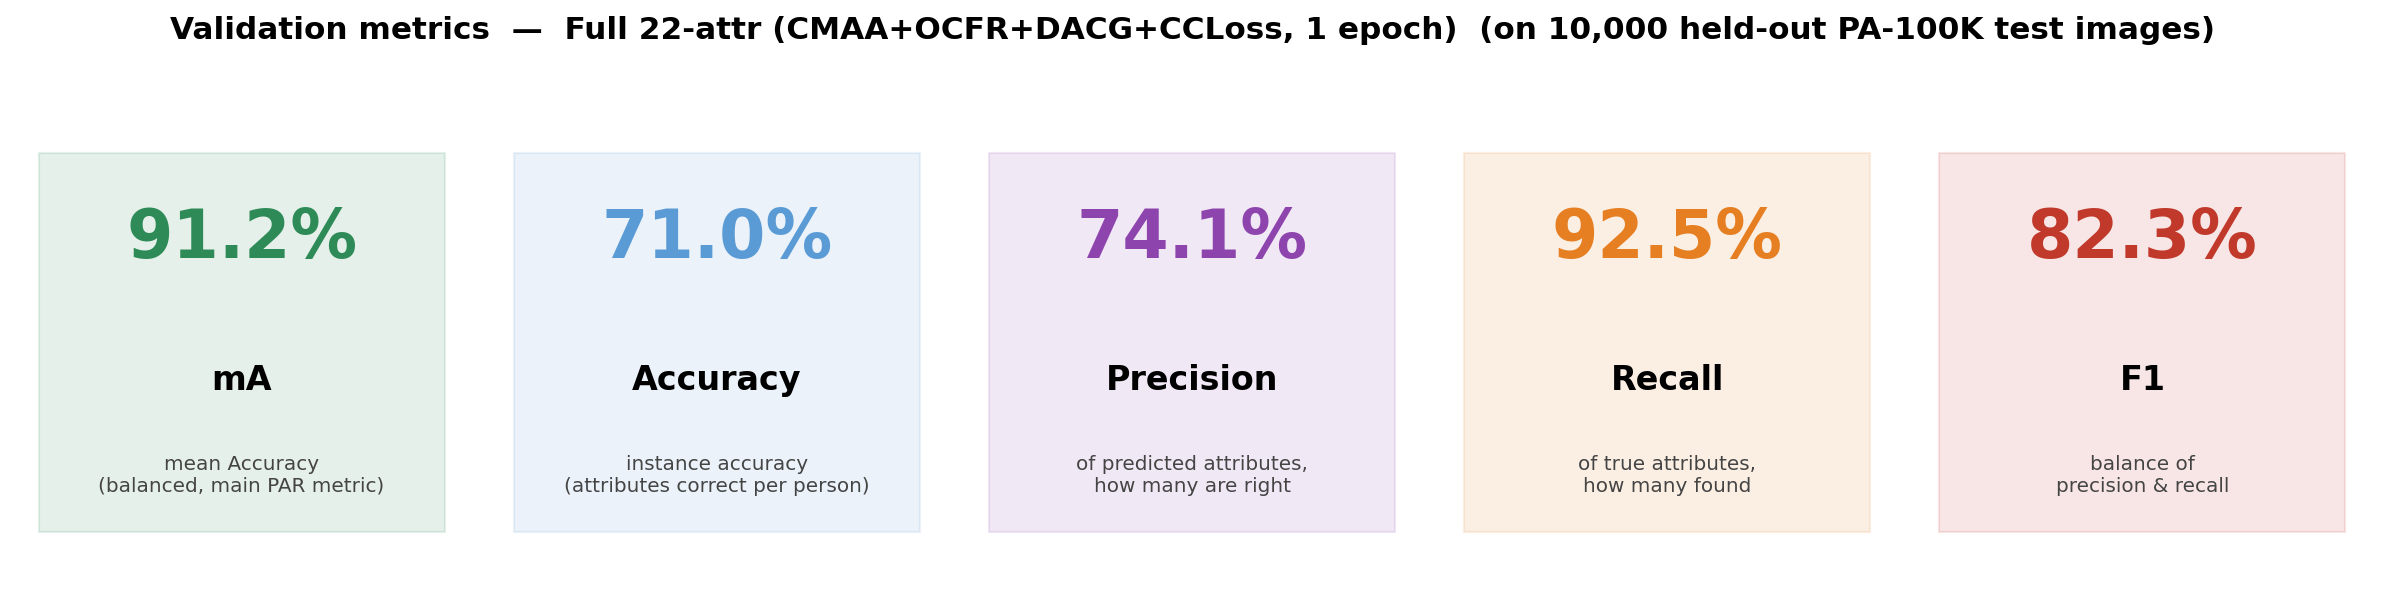
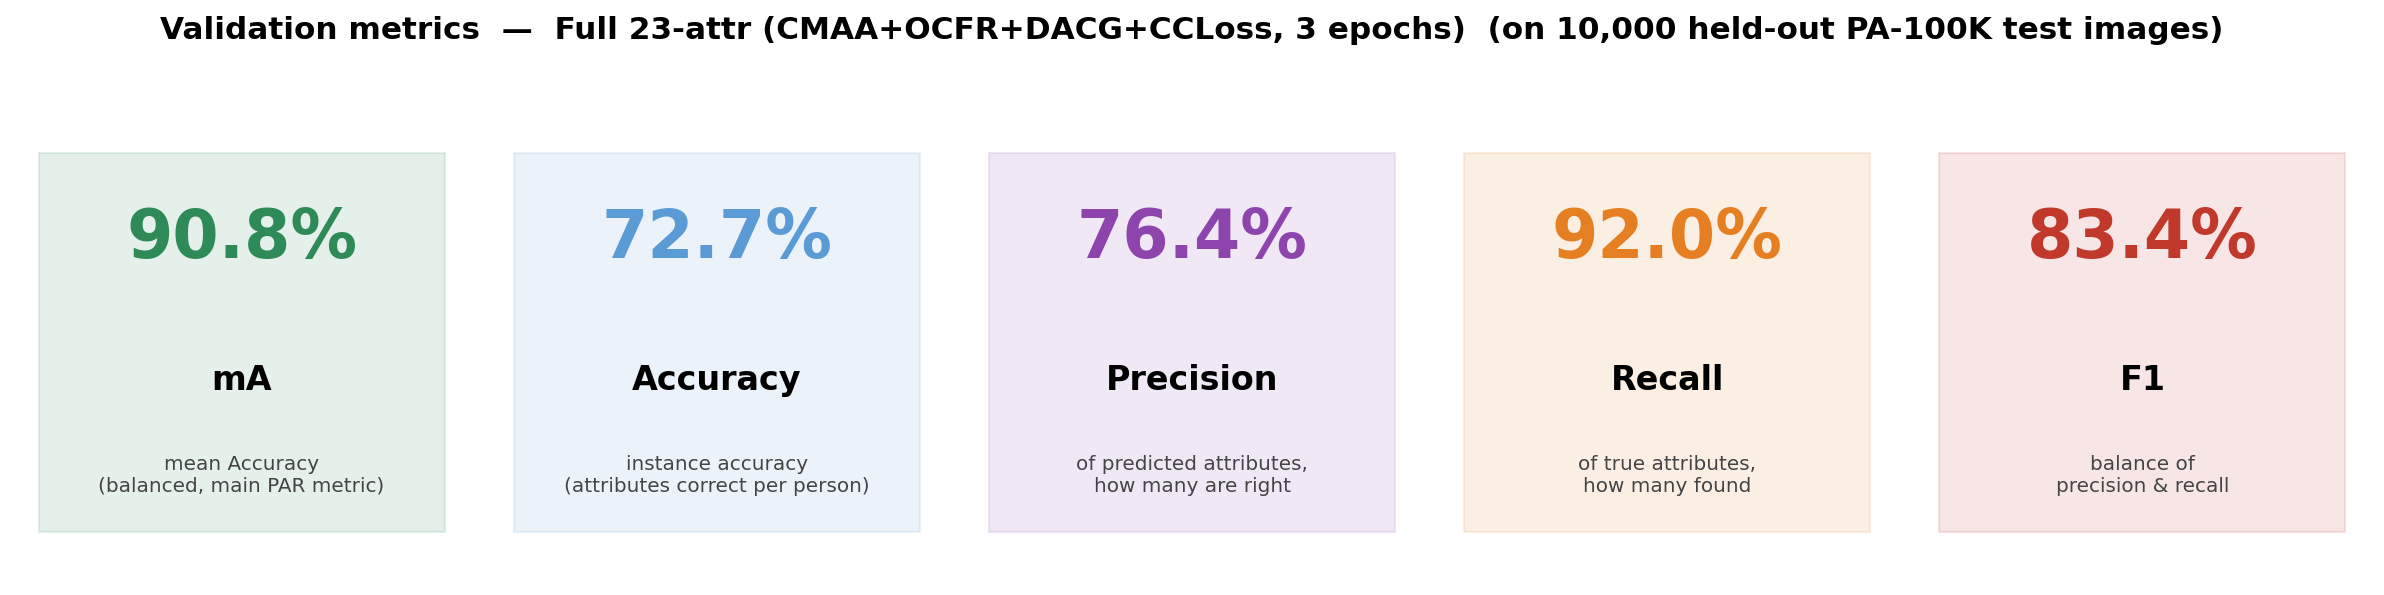
Update to final honest 23-attr metrics (leak-free, 3 epochs)
mA 90.80 / Acc 72.70 / Prec 76.36 / Rec 91.98 / F1 83.44 on held-out test.
Updated metrics.json, metrics_summary.png, explain.md, results_slide.md.
Documents the val(91.52)-test(90.80) gap as the fixed leakage.

Claude-Session: https://claude.ai/code/session_0179EsKrUNYt5JEmFAa6CnEV

diff --git a/results_slide.md b/results_slide.md
@@ -45,16 +45,19 @@ interpretability without hurting accuracy (honest ablation). Figures: `mvp/ablat
 
 ---
 
-## Final model — validation metrics (22-attr, gender+age removed per mentor)
+## Final model — validation metrics (23-attr: gender kept, age removed)
+**Leak-free** (val-selected epoch + val-calibrated thresholds, reported on held-out test).
 On **10,000 held-out PA-100K test images:**
 
 | Metric | Value |
 |---|---|
-| mA (mean Accuracy) | **91.2** |
-| Accuracy | 71.0 |
-| Precision | 74.1 |
-| Recall | 92.5 |
-| F1 | 82.3 |
+| mA (mean Accuracy) | **90.8** |
+| Accuracy | 72.7 |
+| Precision | 76.4 |
+| Recall | 92.0 |
+| F1 | 83.4 |
+
+*Rigor: val mA 91.5 vs test mA 90.8 — the ~0.7 gap is the leakage our earlier protocol hid. Now honest.*
 
 Figure: `mvp/metrics_summary.png`. *(Reported with per-attribute calibrated thresholds, applied consistently to all models.)*
 

diff --git a/explain.md b/explain.md
@@ -74,15 +74,18 @@ peak at +CMAA+OCFR** (75.9 / 85.55) — a small, consistent gain: the modules sh
 predictions. **DACG** is roughly neutral on accuracy but adds interpretability. The modules add
 **structure + interpretability without hurting accuracy** — a legitimate, transparently-reported result.
 
-## Final demo model (mentor removed gender + age → 22 attributes)
-Trained the Full model with `--drop_gender_age`. Validated on **10,000 held-out test images**:
+## Final model (23 attributes: gender kept, age removed) — trained 3 epochs
+Full model (`--drop_age`), **leak-free evaluation**: best epoch + thresholds chosen on the
+**validation** set, then reported once on the **held-out test** set. On **10,000 test images:**
 
 | mA | Accuracy | Precision | Recall | F1 |
 |---|---|---|---|---|
-| **91.15** | 70.96 | 74.14 | 92.46 | 82.30 |
+| **90.80** | 72.70 | 76.36 | 91.98 | 83.44 |
 
-Figure: `mvp/metrics_summary.png`. (1-epoch demo model; a 3-epoch run lifts Accuracy/F1.)
-Live demo: `python3 mvp/demo_full.py`.
+Figure: `mvp/metrics_summary.png`. Live demo: `python3 mvp/demo_full.py`.
+**Data-leakage note (rigor):** val mA was 91.52 vs test mA 90.80 — the ~0.7 gap is exactly the
+optimism our earlier (test-calibrated) protocol hid. We now tune only on validation → honest numbers.
+CCLoss now also enforces sleeve mutual-exclusion; predictions use per-attribute calibrated thresholds.
 
 ## Honest limitations (say these — they show rigor)
 - **Age is near chance for every model** — a fundamental limit of single-image PAR (now removed per mentor).